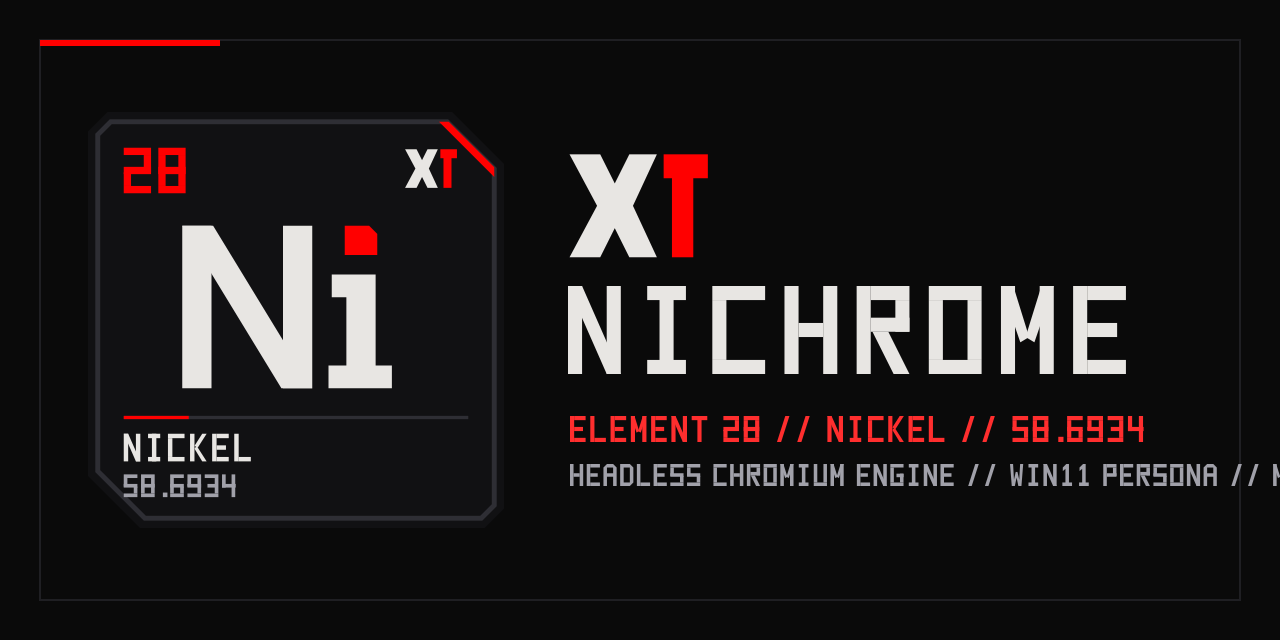
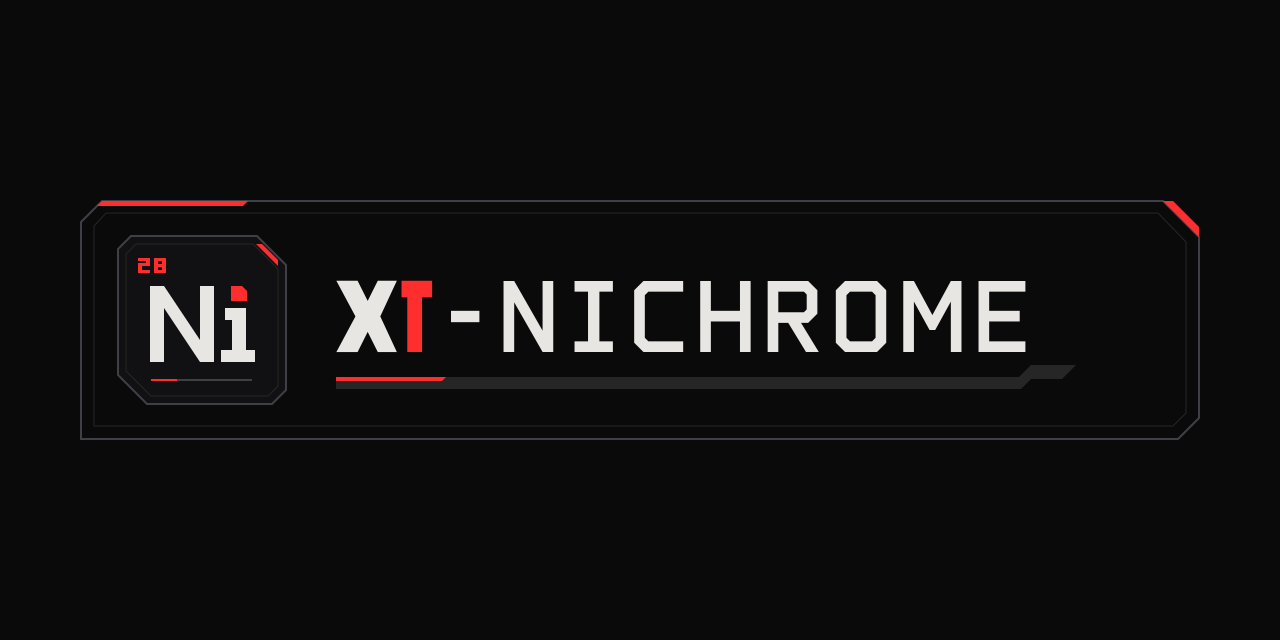
Refresh XT-Nichrome branding and make tab creation atomic

diff --git a/internal/sessions/tabs.go b/internal/sessions/tabs.go
@@ -80,8 +80,11 @@ func (m *Manager) CreateTab(ctx context.Context, sessionID string, req types.Cre
 		return nil, apiErr
 	}
 	s.mu.Lock()
-	if len(s.tabs) >= m.cfg.Limits.MaxTabsPerSession {
-		inUse := len(s.tabs)
+	if s.closing || s.state == types.StateClosed {
+		s.mu.Unlock()
+		return nil, types.NewError(types.CodeNotFound, "session is closing")
+	}
+	if inUse := len(s.tabs) + s.openingTabs; inUse >= m.cfg.Limits.MaxTabsPerSession {
 		s.mu.Unlock()
 		return nil, &types.APIError{
 			Code:    types.CodeCapacity,
@@ -89,9 +92,27 @@ func (m *Manager) CreateTab(ctx context.Context, sessionID string, req types.Cre
 			Detail:  map[string]any{"limit": m.cfg.Limits.MaxTabsPerSession, "inUse": inUse},
 		}
 	}
+	s.openingTabs++
 	s.mu.Unlock()
 
-	pg, apiErr := s.proc.NewPage(ctx, s.contextID)
+	var pg *browser.Page
+	registered := false
+	defer func() {
+		if registered {
+			return
+		}
+		if pg != nil {
+			// A canceled request may still have created a Chromium target.
+			closeCtx, cancel := context.WithTimeout(context.Background(), 5*time.Second)
+			defer cancel()
+			pg.Close(closeCtx)
+		}
+		s.mu.Lock()
+		s.openingTabs--
+		s.mu.Unlock()
+	}()
+
+	pg, apiErr = s.proc.NewPage(ctx, s.contextID)
 	if apiErr != nil {
 		return nil, apiErr
 	}
@@ -99,15 +120,11 @@ func (m *Manager) CreateTab(ctx context.Context, sessionID string, req types.Cre
 		id: newTabID(), page: pg, snapshots: snapshots.NewRegistry(),
 		createdAt: m.cfg.Now(), queue: make(chan struct{}, 1),
 	}
-	// Fail the tab creation if the persona did not actually install: an agent
-	// driving a half-spoofed browser produces polluted results.
 	report, apiErr := pg.VerifyPersona(ctx)
 	if apiErr != nil {
-		pg.Close(ctx)
 		return nil, apiErr
 	}
 	if !report.Consistent() {
-		pg.Close(ctx)
 		return nil, &types.APIError{
 			Code:    types.CodeInternal,
 			Message: "the browser identity could not be established for this tab",
@@ -115,26 +132,28 @@ func (m *Manager) CreateTab(ctx context.Context, sessionID string, req types.Cre
 		}
 	}
 
-	s.mu.Lock()
-	if s.closing {
-		s.mu.Unlock()
-		pg.Close(ctx)
-		return nil, &types.APIError{Code: types.CodeNotFound, Message: "session is closing"}
-	}
-	s.tabs[t.id] = t
-	s.tabOrder = append(s.tabOrder, t.id)
-	s.lastUsed = m.cfg.Now()
-	s.mu.Unlock()
-	m.totalTabs.Add(1)
-
 	out := &types.Tab{TabID: t.id, State: types.StateReady, CurrentURL: pg.CurrentURL()}
 	if req.URL != "" {
-		res, apiErr := m.Navigate(ctx, sessionID, t.id, types.NavigateRequest{URL: req.URL})
+		res, apiErr := m.navigateTab(ctx, s, t, types.NavigateRequest{URL: req.URL})
 		if apiErr != nil {
 			return nil, apiErr
 		}
 		out.CurrentURL = res.URL
 	}
+
+	s.mu.Lock()
+	defer s.mu.Unlock()
+	if s.closing || s.state == types.StateClosed {
+		return nil, types.NewError(types.CodeNotFound, "session is closing")
+	}
+	if ctx.Err() != nil {
+		return nil, types.NewError(types.CodeTimeout, "request was canceled while opening the tab")
+	}
+	s.openingTabs--
+	s.tabs[t.id] = t
+	s.tabOrder = append(s.tabOrder, t.id)
+	s.lastUsed = m.cfg.Now()
+	registered = true
 	return out, nil
 }
 
@@ -186,7 +205,6 @@ func (m *Manager) CloseTab(ctx context.Context, sessionID, tabID string) *types.
 	t.close()
 	t.snapshots.Invalidate(tabID)
 	t.page.Close(ctx)
-	m.totalTabs.Add(-1)
 	return nil
 }
 
@@ -214,6 +232,10 @@ func (m *Manager) Navigate(ctx context.Context, sessionID, tabID string, req typ
 	if apiErr != nil {
 		return nil, apiErr
 	}
+	return m.navigateTab(ctx, s, t, req)
+}
+
+func (m *Manager) navigateTab(ctx context.Context, s *session, t *tab, req types.NavigateRequest) (*types.NavigateResult, *types.APIError) {
 	if strings.TrimSpace(req.URL) == "" {
 		return nil, &types.APIError{Code: types.CodeInvalidRequest, Message: "url is required", Detail: map[string]any{"field": "url"}}
 	}
@@ -243,7 +265,7 @@ func (m *Manager) Navigate(ctx context.Context, sessionID, tabID string, req typ
 	defer leave()
 
 	// A navigation invalidates every reference taken against the old document.
-	t.snapshots.Invalidate(tabID)
+	t.snapshots.Invalidate(t.id)
 
 	res, apiErr := t.page.Navigate(ctx, req.URL, req.WaitUntil, timeout)
 	if apiErr != nil {

diff --git a/tests/isolation_test.go b/tests/isolation_test.go
@@ -1,8 +1,12 @@
 package tests
 
 import (
+	"net/http"
 	"strings"
+	"sync"
 	"testing"
+
+	"github.com/xtrcom/xt-nichrome/internal/types"
 )
 
 // TestPersistentProfile survives a session close and reopen, which is the whole
@@ -213,5 +217,80 @@ func TestProfileBusy(t *testing.T) {
 	}}.json(&e)
 	if status != 409 || e.Code != "BUSY_PROFILE" {
 		t.Fatalf("second open of a busy profile gave %d %s (%s)", status, e.Code, e.Message)
+	}
+}
+
+func TestConcurrentTabOpenRespectsCapacity(t *testing.T) {
+	d := startDaemon(t, "-max-tabs", "2")
+	s := newSession(t, d)
+	path := "/v1/sessions/" + s.ID + "/tabs"
+
+	const workers = 8
+	start := make(chan struct{})
+	statuses := make(chan int, workers)
+	var wg sync.WaitGroup
+	for range workers {
+		wg.Go(func() {
+			<-start
+			status, _ := call{T: t, D: d, Method: "POST", Path: path, Body: map[string]any{}}.do()
+			statuses <- status
+		})
+	}
+	close(start)
+	wg.Wait()
+	close(statuses)
+
+	created := 0
+	for status := range statuses {
+		switch status {
+		case http.StatusCreated:
+			created++
+		case http.StatusTooManyRequests:
+		default:
+			t.Errorf("open returned unexpected status %d", status)
+		}
+	}
+	if created != 1 {
+		t.Errorf("opened %d additional tabs with one free slot", created)
+	}
+}
+
+func TestFailedInitialNavigationReleasesTab(t *testing.T) {
+	d := startDaemon(t, "-max-tabs", "2")
+	s := newSession(t, d)
+	path := "/v1/sessions/" + s.ID + "/tabs"
+
+	var denied apiError
+	status := call{T: t, D: d, Method: "POST", Path: path, Body: map[string]any{
+		"url": d.denied.URL + "/form",
+	}}.json(&denied)
+	if status != http.StatusForbidden || denied.Code != types.CodePolicyBlocked {
+		t.Fatalf("open returned %d %s, want a policy denial", status, denied.Code)
+	}
+
+	var ready types.Ready
+	call{T: t, D: d, Method: "GET", Path: "/readyz"}.mustOK(&ready)
+	if ready.Tabs != 1 {
+		t.Errorf("readiness reports %d tabs after a failed open, want 1", ready.Tabs)
+	}
+
+	var tab types.Tab
+	call{T: t, D: d, Method: "POST", Path: path, Body: map[string]any{
+		"url": d.fixtureURL(t, "/form"),
+	}}.mustOK(&tab)
+	if tab.TabID == "" || tab.CurrentURL != d.fixtureURL(t, "/form") {
+		t.Fatalf("replacement tab reported unexpected state: %+v", tab)
+	}
+}
+
+func TestSessionCloseUpdatesLiveTabCount(t *testing.T) {
+	d := startDaemon(t)
+	s := newSession(t, d)
+	call{T: t, D: d, Method: "DELETE", Path: "/v1/sessions/" + s.ID}.mustOK(nil)
+
+	var ready types.Ready
+	call{T: t, D: d, Method: "GET", Path: "/readyz"}.mustOK(&ready)
+	if ready.Sessions != 0 || ready.Tabs != 0 {
+		t.Fatalf("after close, readiness reports %d sessions and %d tabs", ready.Sessions, ready.Tabs)
 	}
 }

diff --git a/internal/sessions/sessions.go b/internal/sessions/sessions.go
@@ -98,7 +98,6 @@ type Manager struct {
 	closedCh chan struct{}
 	stopOnce sync.Once
 
-	totalTabs atomic.Int64
 	// deniedAdmissions counts navigations refused by the origin allowlist before
 	// the request ever reached the proxy. Without it, an operator watching the
 	// proxy's denial counter would see zero while every navigation is refused,
@@ -122,12 +121,13 @@ type session struct {
 	contextID string
 	ownsProc  bool
 
-	mu       sync.Mutex
-	tabs     map[string]*tab
-	tabOrder []string
-	state    string
-	lastUsed time.Time
-	closing  bool
+	mu          sync.Mutex
+	tabs        map[string]*tab
+	tabOrder    []string
+	openingTabs int
+	state       string
+	lastUsed    time.Time
+	closing     bool
 }
 
 type tab struct {
@@ -600,9 +600,9 @@ func (m *Manager) evictIdle() {
 	for id, s := range m.sessions {
 		s.mu.Lock()
 		idle := now.Sub(s.lastUsed)
-		closing := s.closing
+		canEvict := !s.closing && s.openingTabs == 0
 		s.mu.Unlock()
-		if !closing && idle > m.cfg.Limits.IdleTimeout {
+		if canEvict && idle > m.cfg.Limits.IdleTimeout {
 			victims = append(victims, id)
 		}
 	}
@@ -618,9 +618,13 @@ func (m *Manager) evictIdle() {
 // Stats reports live counts.
 func (m *Manager) Stats() (sessions int, tabs int) {
 	m.mu.Lock()
-	sessions = len(m.sessions)
-	m.mu.Unlock()
-	return sessions, int(m.totalTabs.Load())
+	defer m.mu.Unlock()
+	for _, s := range m.sessions {
+		s.mu.Lock()
+		tabs += len(s.tabs)
+		s.mu.Unlock()
+	}
+	return len(m.sessions), tabs
 }
 
 func removeString(list []string, s string) []string {

diff --git a/tests/e2e_test.go b/tests/e2e_test.go
@@ -345,7 +345,7 @@ func TestM3RequestValidation(t *testing.T) {
 		{"unknown field", `{"kind":"click","snapshotId":"x","ref":"e1","nope":1}`, 400, "INVALID_REQUEST"},
 		{"duplicate key", `{"kind":"click","kind":"fill","snapshotId":"x","ref":"e1"}`, 400, "INVALID_REQUEST"},
 		{"wrong type", `{"kind":"click","snapshotId":5,"ref":"e1"}`, 400, "INVALID_REQUEST"},
-		{"bad kind", `{"kind":"hover","snapshotId":"x","ref":"e1"}`, 400, "INVALID_REQUEST"},
+		{"bad kind", `{"kind":"unknown-action","snapshotId":"x","ref":"e1"}`, 400, "INVALID_REQUEST"},
 		{"click with text", `{"kind":"click","snapshotId":"x","ref":"e1","text":"hi"}`, 400, "INVALID_REQUEST"},
 		{"trailing value", `{"kind":"click","snapshotId":"x","ref":"e1"}{"a":1}`, 400, "INVALID_REQUEST"},
 	}

diff --git a/README.md b/README.md
@@ -70,7 +70,7 @@ The fixture echoes the submitted name. The subshell closes the test session when
 
 ![XT-Nichrome runtime architecture showing the client, session manager, Chromium over the DevTools pipe, policy proxy, permitted origins, and optional Ni-Cursor](docs/diagrams/runtime.svg)
 
-- **Sessions and tabs.** Each server instance owns its session manager. Ephemeral sessions use isolated contexts in a shared Chromium process. Persistent sessions use dedicated Chromium processes and locked profile directories under `<state-dir>/profiles`. Operations on a tab share a bounded queue.
+- **Sessions and tabs.** Each server instance owns its session manager. Ephemeral sessions use isolated contexts in a shared Chromium process. Persistent sessions use dedicated Chromium processes and locked profile directories under `<state-dir>/profiles`. Operations on a tab share a bounded queue. Tab creation reserves capacity while Chromium starts the page and releases that slot if setup or the initial navigation fails.
 - **Browser control.** Go talks to Chromium over the Chromium DevTools Protocol (CDP) pipe. The browser has no TCP debugging listener. The HTTP daemon's REST and MCP endpoints are separate from that pipe.
 - **Network access.** Navigation admission checks the destination origin. Chromium's HTTP, HTTPS, and WebSocket traffic passes through a local proxy that checks policy and resolved IPs. Private and loopback access is blocked by default.
 - **Accessibility snapshots.** A snapshot returns readable page structure and handles such as `@e3`. A handle belongs to one snapshot of one tab. When a navigation or document change invalidates it, inspect the page again before acting.
@@ -170,14 +170,14 @@ The REST JSON decoder rejects unknown fields, duplicate keys, and trailing data.
 | `make e2e` | End-to-end tests against a real Chromium browser | Chromium, daemon font pack, loopback sockets |
 | `make bench` | Direct CDP and daemon fixture measurements | Chromium, daemon font pack, loopback sockets |
 
-![Historical fixture timings in milliseconds. The dots show medians and line ends show p95. Exact values are in the table below.](docs/diagrams/fixture-latency.svg)
+![Recorded fixture timings in milliseconds. The dots show medians and line ends show p95. Exact values are in the table below.](docs/diagrams/fixture-latency.svg)
 
 | Operation | Direct CDP median / p95 | XT-Nichrome median / p95 |
 | --- | ---: | ---: |
-| Navigate and load | 13.2 / 23.7 ms | 19.5 / 31.0 ms |
-| Read accessibility data | 3.1 / 4.3 ms | 2.4 / 7.0 ms |
+| Navigate and load | 12.7 / 21.9 ms | 18.4 / 28.7 ms |
+| Read accessibility data | 2.5 / 4.2 ms | 2.7 / 6.8 ms |
 
-These values come from the repository's earlier Chromium 141 baseline on an eight-core host (`6cabe0e`), using 30 samples per navigation and accessibility loop. The accessibility rows compare a raw CDP tree fetch with a service snapshot, which return different outputs. Run `make bench` for measurements on your host. [Benchmark source](bench/bench_test.go)
+These values come from a `make bench` run with Chromium 141 on November 20, 2026, using 30 samples per navigation and accessibility loop. The accessibility rows compare a raw CDP tree fetch with a service snapshot, which return different outputs. Run `make bench` for measurements on your host. [Benchmark source](bench/bench_test.go)
 
 ## Repository map
 

diff --git a/assets/README.md b/assets/README.md
@@ -2,7 +2,7 @@
 
 XT-Nichrome uses the XT industrial geometric house style paired with the periodic-table element tile for **Nickel (`Ni`, atomic number `28`, atomic mass `58.6934`)** — the primary constituent of the nichrome resistance alloy (`80% Ni / 20% Cr`).
 
-All SVG files in this directory are **100% pure vector `<path>` geometry** with zero `<text>` or external font dependencies, guaranteeing identical rendering across Linux, Windows, macOS, GitHub, and headless rasterizers.
+The SVG artwork uses vector paths with no external fonts. The horizontal wordmark includes an accessible title and description.
 
 ## Color Palette
 
@@ -18,7 +18,7 @@ All SVG files in this directory are **100% pure vector `<path>` geometry** with 
 ## Construction Grid
 
 - **Periodic Tile (`logo-ni*.svg`):** `512 × 512` viewBox with `24 px` / `64 px` asymmetric industrial corner chamfers (`45°` bevels), `12 px` inset hairline frame, and `36 px` primary stem weight on the central `Ni` symbol.
-- **Display Letterforms (`logo-word.svg`):** Constructed on a `60 × 100` unit cell with `16` unit stem/crossbar thickness and `20` unit inter-glyph tracking, paired with the authentic XT chevron (`X`) and crimson `T`.
+- **Horizontal Wordmark (`logo-word.svg`):** A `1120 × 240` chamfered panel with a compact nickel tile, the XT chevron and crimson `T`, and custom lettering on a shared 100-unit cap line.
 - **Favicon (`favicon.svg`):** `32 × 32` hexagonal perimeter ring (`1.8 px` stroke) housing a high-contrast `Ni` monogram with a crimson `2.4 × 2.4` tittle for sub-32px legibility.
 
 ## Clear Space & Minimum Sizes

diff --git a/docs/API.md b/docs/API.md
@@ -79,7 +79,7 @@ Closes the session and all of its tabs, releasing its capacity slot and any pers
 ## 3. Tabs (`/v1/sessions/{id}/tabs`)
 
 ### `POST /v1/sessions/{id}/tabs`
-Opens a new tab, runs the startup stealth persona self-check gate, and optionally navigates to an initial URL.
+Opens a new tab, runs its startup checks, and optionally navigates to an initial URL. Pending opens reserve capacity. The tab appears in the session only after setup and initial navigation succeed. Failure releases its slot.
 ```json
 {
   "url": "https://example.com"
